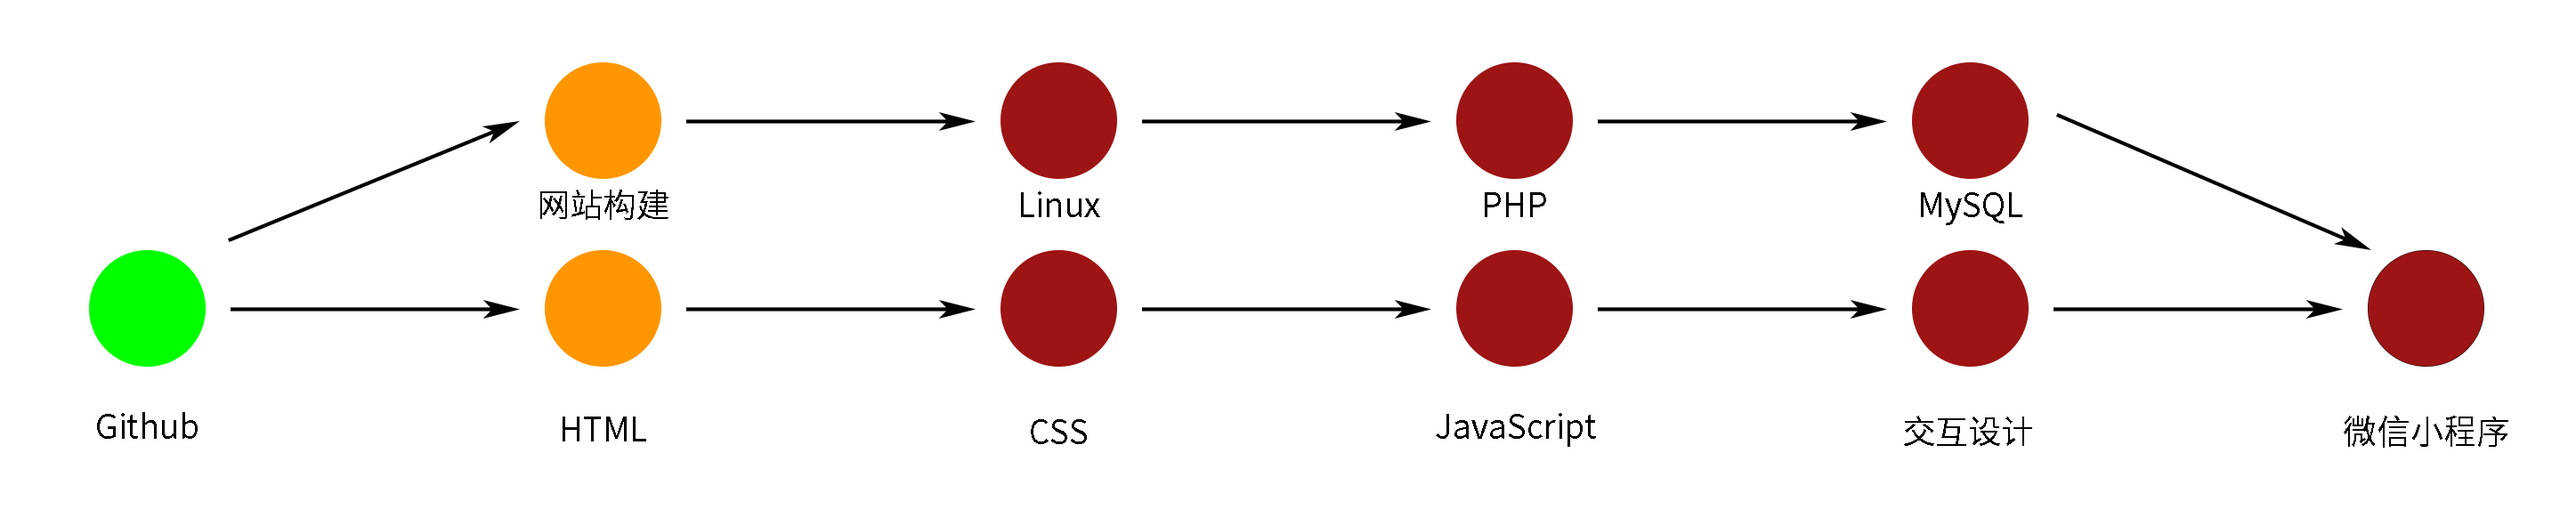
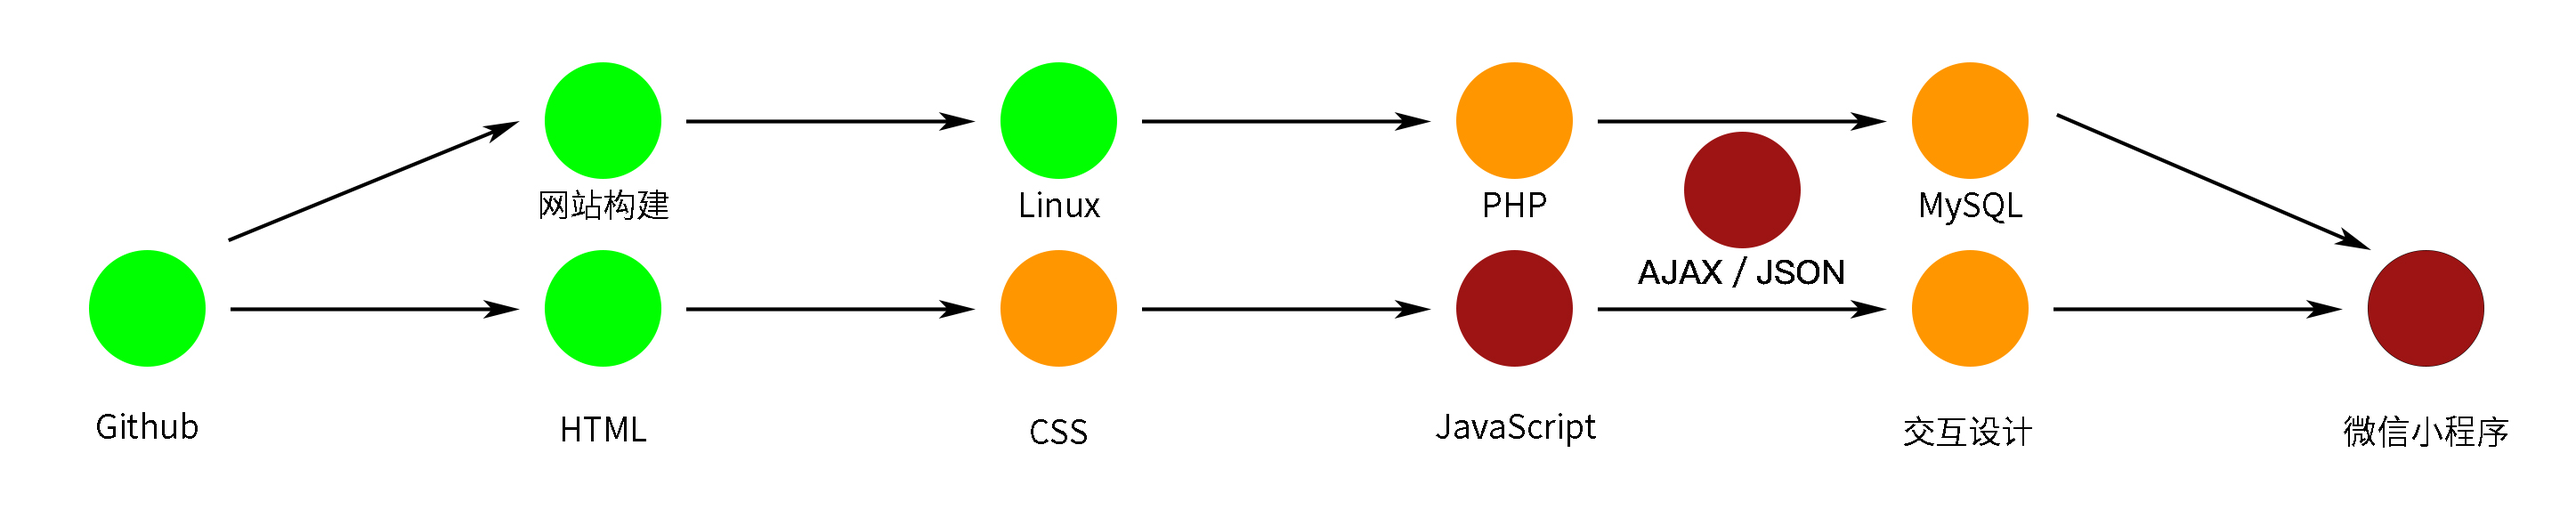
更新流程动态

diff --git a/README.md b/README.md
@@ -2,7 +2,7 @@
 <h2>开发进程：</h2>
 <img src="https://github.com/chentairan/Wechat/blob/master/微信小程序项目/图片素材/流程图.jpg">
 </p>
-<p>黄色圆代表正在进行，红色圆代表待进行，绿色圆代表已完成</p>
+<p>黄色圆代表正在进行，红色圆代表待进行，绿色圆代表已完成,AJAX和JSON待确定</p>
 <img src="https://github.com/chentairan/Wechat/blob/master/微信小程序项目/图片素材/Git常用命令速查表.jpg">
 </p>
 <h2>AppID(小程序ID): wx2994ad5bb8b672e0</h2>
